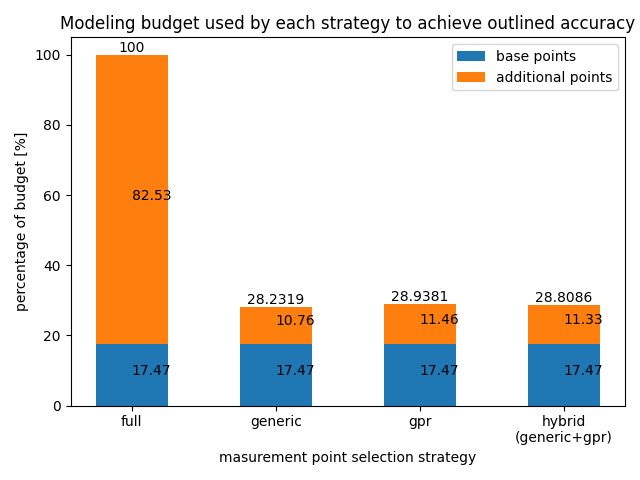
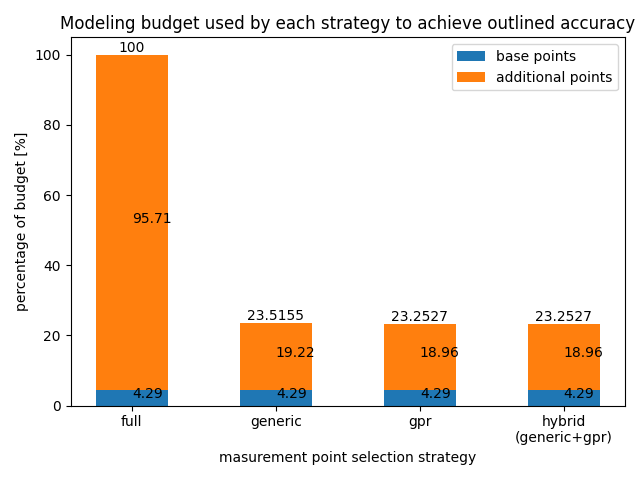
fixed some bugs

diff --git a/case_study.py b/case_study.py
@@ -312,7 +312,7 @@ def main():
         logging.basicConfig(
             format="%(levelname)s: %(message)s", level=loglevel)
 
-    #TODO: make sure the code works for all case studies: FASTEST, Kripke, Lulesh, Minife, Quicksilver
+    #TODO: make sure the code works for all case studies: Kripke, Quicksilver
     
     budget = int(args.budget)
     print("budget:",budget)
@@ -363,24 +363,56 @@ def main():
                 logging.error("The given file path is not valid.")
                 sys.exit(1)
 
+        # find the runtime metric first
+        temp_metric_id = -1
+        for o in range(len(experiment.metrics)):
+            if str(experiment.metrics[o]) == "runtime" or str(experiment.metrics[o]) == "time":
+                temp_metric_id = o
+                break
+
         # make sure the evaluation point is not used for modeling
         measurements_backup = copy.deepcopy(experiment.measurements)
+        #print("DEBUG:",measurements_backup)
+        #measurements_backup2 = []
         measurement_evaluation = copy.deepcopy(experiment.measurements)
         #coordinate_evaluation = copy.deepcopy(experiment.coordinates)
         experiment.measurements = None
-        for o in range(len(experiment.metrics)):
-            for k in range(len(experiment.callpaths)):
-                for i in range(len(experiment.coordinates)):
-                    cord = measurements_backup[experiment.callpaths[k], experiment.metrics[o]][i].coordinate
-                    if cord == Coordinate(float(eval_point[0]),float(eval_point[1])):
-                        measurements_backup[experiment.callpaths[k], experiment.metrics[o]].pop(i)
+        #print("len(experiment.coordinates):",len(experiment.coordinates))
+        #print("experiment.coordinates:",experiment.coordinates)
+        for k in range(len(experiment.callpaths)):
+            temp = []
+            for i in range(len(experiment.coordinates)):
+                #print("measurements_backup:",measurements_backup[experiment.callpaths[k], experiment.metrics[temp_metric_id]])
+                #print("i:",i)
+                cord = measurements_backup[experiment.callpaths[k], experiment.metrics[temp_metric_id]][i].coordinate
+                if cord == Coordinate(float(eval_point[0]),float(eval_point[1])):
+                    pass
+                    #measurements_backup2.append(measurements_backup[experiment.callpaths[k], experiment.metrics[temp_metric_id]][i])
+                    #measurements_backup[experiment.callpaths[k], experiment.metrics[temp_metric_id]].pop(i)
+                else:
+                    temp.append(measurements_backup[experiment.callpaths[k], experiment.metrics[temp_metric_id]][i])
+            measurements_backup[experiment.callpaths[k], experiment.metrics[temp_metric_id]] = temp
+            #print("len(measurements_backup[experiment.callpaths[k], experiment.metrics[temp_metric_id]]):",len(measurements_backup[experiment.callpaths[k], experiment.metrics[temp_metric_id]]))
+        """for k in range(len(experiment.callpaths)):
+            for i in range(len(ids_to_delete)):
+                id_to_delete = ids_to_delete[i]
+                measurements_backup[experiment.callpaths[k], experiment.metrics[temp_metric_id]].pop(id_to_delete)"""
+        #measurements_backup = measurements_backup2
+
         experiment.measurements = measurements_backup
         coordinate_evaluation = []
+        temp = []
+        #print("experiment.coordinates:",experiment.coordinates)
+        #print("len(experiment.coordinates):",len(experiment.coordinates))
         for i in range(len(experiment.coordinates)):
             coordinate_evaluation.append(experiment.coordinates[i])
         for i in range(len(experiment.coordinates)):
             if experiment.coordinates[i] == Coordinate(float(eval_point[0]),float(eval_point[1])):
-                experiment.coordinates.pop(i)
+                pass
+                #experiment.coordinates.pop(i)
+            else:
+                temp.append(experiment.coordinates[i])
+        experiment.coordinates = temp
 
         # initialize model generator
         model_generator = ModelGenerator(
@@ -757,6 +789,10 @@ def main():
                 elif parameters[0] == "p" and parameters[1] == "n":
                     p = int(eval_point[0])
                     n = int(eval_point[1])
+                elif parameters[0] == "p" and parameters[1] == "s":
+                    p = int(eval_point[0])
+                    s = int(eval_point[1])
+
 
                 prediction_full = eval(all_points_functions_strings[callpath_string])
                 #print("prediction_full:",prediction_full)
@@ -973,6 +1009,9 @@ def main():
                 elif parameters[0] == "p" and parameters[1] == "n":
                     p = int(eval_point[0])
                     n = int(eval_point[1])
+                elif parameters[0] == "p" and parameters[1] == "s":
+                    p = int(eval_point[0])
+                    s = int(eval_point[1])
 
                 prediction_full = eval(all_points_functions_strings[callpath_string])
                 #print("prediction_full:",prediction_full)
@@ -1186,6 +1225,9 @@ def main():
                 elif parameters[0] == "p" and parameters[1] == "n":
                     p = int(eval_point[0])
                     n = int(eval_point[1])
+                elif parameters[0] == "p" and parameters[1] == "s":
+                    p = int(eval_point[0])
+                    s = int(eval_point[1])
 
                 prediction_full = eval(all_points_functions_strings[callpath_string])
                 #print("prediction_full:",prediction_full)

diff --git a/README.md b/README.md
@@ -4,15 +4,17 @@ Evaluation code for the GPR journal paper. Contains the code to do a synthetic a
 
 ## Run the evaluation tool for the case studies:
 
-FASTEST: `python .\case_study.py --budget 20 --cube D:\fastest\ --processes 0 --parameters "p","size" --eval_point "512","65536" --filter 1 --plot True --normalization True`
+FASTEST: `python .\case_study.py --cube E:\fastest\ --processes 0 --parameters "p","size" --eval_point "512","65536" --filter 1 --budget 30 --plot True --normalization True`
 
 Relearn: `python .\case_study.py --text .\relearn\relearn_data.txt --processes 0 --parameters "p","n" --eval_point "512","9000" --filter 1 --budget 30 --plot True --normalization True`
 
-Kripke: ``
+Kripke: `python .\case_study.py --cube E:\kripke\ --processes 0 --parameters "p","d","g" --eval_point "32768","12","160" --filter 1 --budget 30 --plot True --normalization True`
 
-MiniFE: `python .\case_study.py --cube E:\minife\ --processes 0 --parameters "p","n" --eval_point "2048","100" --filter 1 --plot True --budget 20  --normalization True`
+MiniFE: `python .\case_study.py --cube E:\minife\ --processes 0 --parameters "p","n" --eval_point "2048","350" --filter 1 --plot True --budget 20  --normalization True`
 
+LULESH: `python .\case_study.py --cube E:\lulesh\ --processes 0 --parameters "p","s" --eval_point "1000","35" --filter 0 --plot True --budget 30  --normalization True`
 
+Quicksilver: ``
 
 ## Run the evaluation tool for the synthetic evaluation:
 
@@ -24,13 +26,6 @@ MiniFE: `python .\case_study.py --cube E:\minife\ --processes 0 --parameters "p"
 2. `python setup.py sdist bdist_wheel`
 3. `cd ..`
 4. `pip install -e extrap-counter/`
-
-## Notes:
-
-* we need to identify how many and which points are available atm
-    * not enough for modeling -> advice finishing the lines of 5 points for each parameter
-    * enough for modeling -> advice additional points from the matrix of possible points (decide based on estimated cost from our created model)
-
 
 ### Generic Strategy
 
@@ -65,13 +60,3 @@ the sparse modeling technique.
 2. uses generic strategy until a swtiching_point is hit, e.g. 11 selected points (base points + additional points) for 2 parameters.
 3. then uses gpr strategy to select points
 4. continues selecting points with 2. and 3. until the given budget is exhausted
-
-
-### CLANG
-
-ml Stages/2022 GCC/11.2.0 ParaStationMPI/5.5.0-1 Clang/13.0.1 libtool/.2.4.6 Python/3.9.6
-
-export PATH=/p/project/deepsea/demorais1/scorep-llvm/build/install/bin/:$PATH
-export MPICH_CC=clang MPICH_CXX=clang++
-mpicxx --version
-export SCOREP_TIMER=logical_basicblocks
